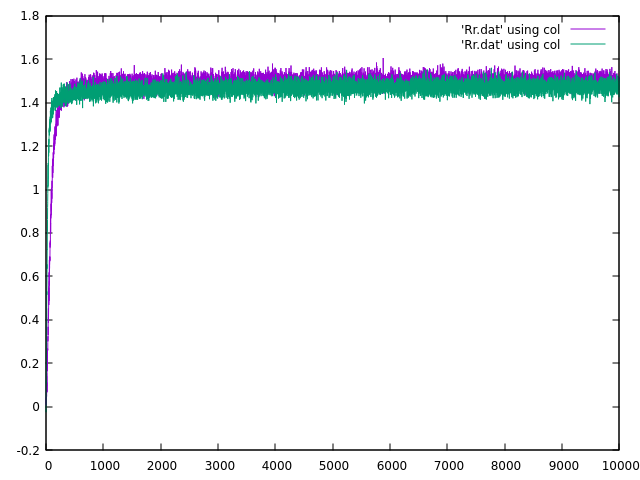
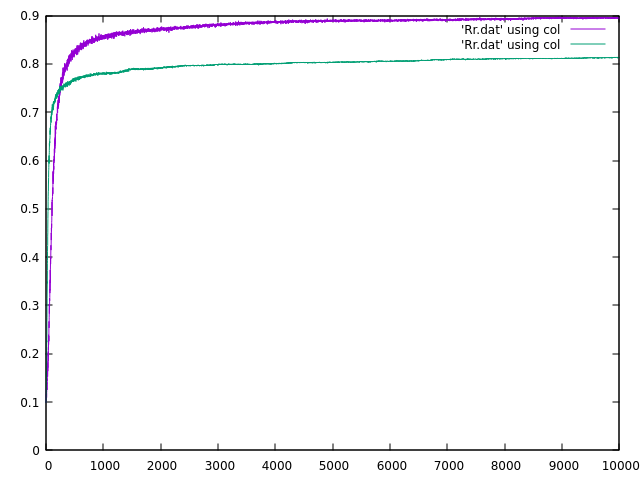
plotting optimal action percent

diff --git a/Section 2.8 - Gradient Bandit/main.c b/Section 2.8 - Gradient Bandit/main.c
@@ -28,9 +28,11 @@ int main (void) {
   size_t n[K]; /* Numbers of times each action taken */
   double S[K]; /* non-stationary random steps */
   double Rr[STEPS]; for(size_t i = 0; i < STEPS; i++) Rr[i] = 0;/* Average reward across runs */
+  double Ar[STEPS]; for(size_t i = 0; i < STEPS; i++) Ar[i] = 0;/* Optimal action percent across runs */
   /* Values */
   size_t A = 0; /* Action to take each step */
   double R = 0; /* Reward value */
+  size_t O = 0; /* Optimal action */
   size_t exploitations = 0; /* Number times exploited */
   size_t explorations = 0; /* Number times explored */
   double M = 0; /* non-stationary initial mean */
@@ -47,6 +49,9 @@ int main (void) {
     randn(0, 1, &M, 1);
     for (size_t i = 0; i < K; i++) q[i] = 0;
     #endif
+
+    /* Index of optimal action */
+    O = argmax(q, K);
     
     /* Set other arrays to zero */
     for (size_t i = 0; i < K; i++) {
@@ -92,7 +97,9 @@ int main (void) {
       }
       // printf("\n");
 
+      /* Log performance */
       Rr[t] += R; /* Sum reward over all runs */
+      if (A == O) Ar[t]++;
     }
     // return 0;
   }
@@ -105,11 +112,10 @@ int main (void) {
   f2 = fopen("Rr_weighted.dat", "w");
   #endif
 
-  /* Average summed rewards and save to file */
+  /* Average over runs and save to file */
   for (size_t t = 0; t < STEPS; t++) {
-    Rr[t] /= RUNS; 
-    // fprintf(f2, "%zu %g\n", t, Rr[t]);
-    fprintf(f2, "%g\n", Rr[t]);
+    Ar[t] /= RUNS; 
+    fprintf(f2, "%g\n", Ar[t]);
   }
   fclose(f2);
 

diff --git a/Section 2.8 - Gradient Bandit/README.md b/Section 2.8 - Gradient Bandit/README.md
@@ -1,5 +1,5 @@
 # Section 2.8 - Gradient Bandit Algorithms
-Gradient acent policy.
+Gradient ascent policy.
 
 Run main program for ALPHA: 0.1, 0.4. (Baseline option coming soon) Then run `graph_2.8.sh` to graph results:
 
